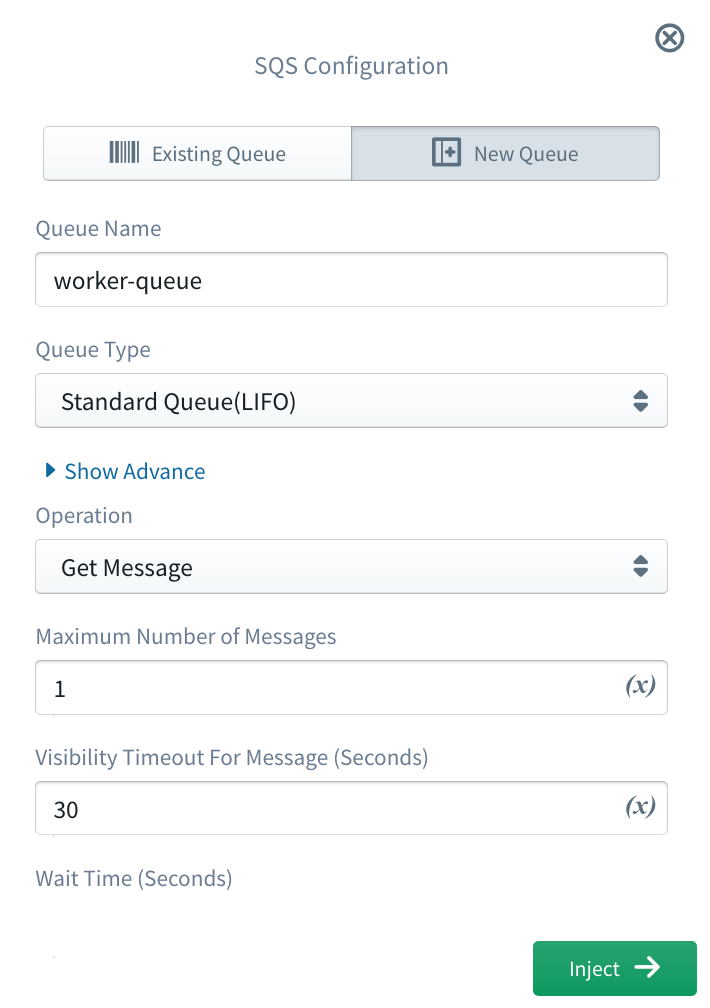
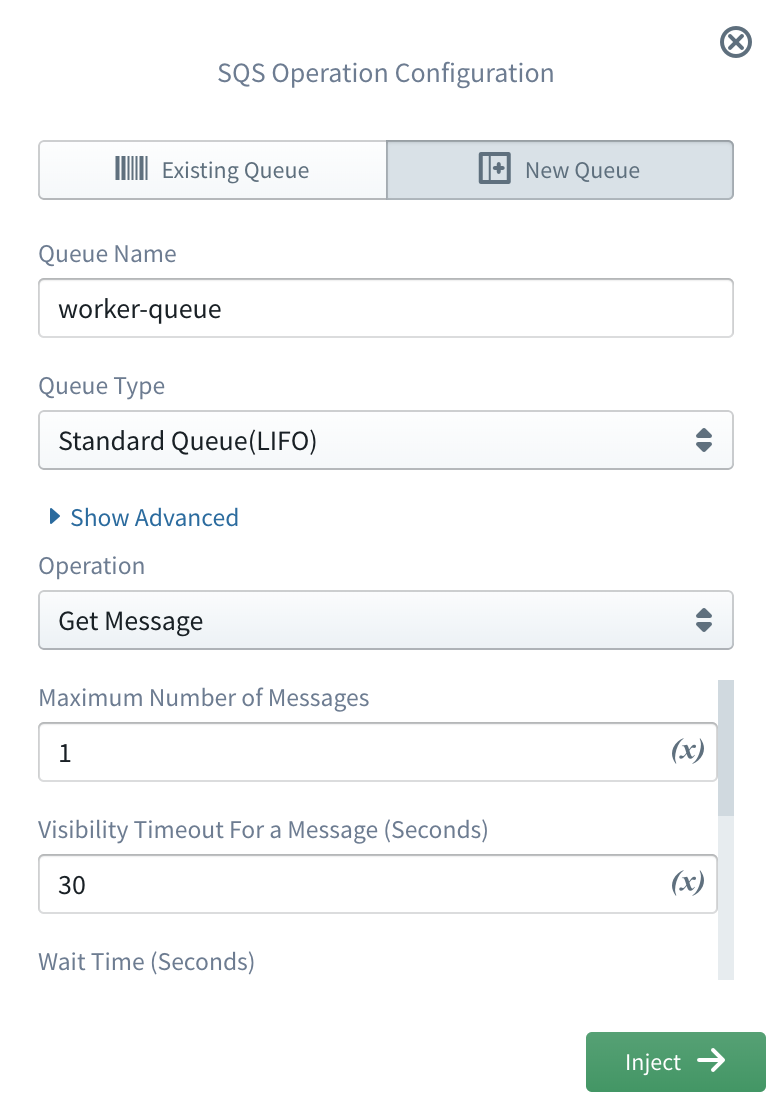
Fixed some issues in the SQS documentation

diff --git a/docs/components/aws/sqs.md b/docs/components/aws/sqs.md
@@ -4,49 +4,57 @@ description: Process and push messages on scalable AWS SQS cloud message queues,
 
 # ![](images/sqs/sqs_icon.svg) AWS SQS (Simple Queue Service)
 
-Amazon Simple Queue Service (SQS) is fully managed, reliable and highly scalable cloud message queuing service to store
-and consume messages to keep modularity between application components in micro services and distributed systems.
-SQS supports both standard and FIFO queue types, to facilitate at-least-once and exactly-once guarantees respectively,
-while providing highly concurrent access to messages and high availability for producing and consuming messages.
+Amazon Simple Queue Service (SQS) is a fully managed, reliable and highly scalable cloud message queuing service that 
+can be used to store and consume messages to keep modularity between application components in microservices and 
+distributed systems.
+SQS supports both standard and FIFO queue types, to facilitate **at-least-once** and **exactly-once guarantees** 
+respectively, while providing highly concurrent access to messages and high availability for producing and consuming 
+messages.
 
 The Sigma IDE currently supports most of the available features of SQS service including,
 - Standard and FIFO queue types
-- Queue level and per message configurations and validations for all provided features like visibility time, delivery delay etc.
+- Queue level and per message configurations and validations for all provided features like visibility time, delivery
+ delay, etc.
 - Put, Get and Get and Remove operations are provided.
 - Operation wise parameter configuration and validation.
 
 ## SQS for Operations
-Sigma IDE provides the ability to execute Get, Put and Get and Remove operations on SQS resources. Users have the ability 
-to either select an existing queue or configure new queue to execute the required operation. Sigma provides ability to 
-configure both operation and queue resource under a single window without any overhead to the user.
+Sigma IDE provides the ability to execute **Get**, **Put** and **Get and Remove** operations on SQS resources. Users 
+have the ability to either select an existing queue or configure a new queue to execute the required operation. Sigma 
+provides the ability to configure both operation and queue resource under a single window without any overhead to the 
+user.
 
-To use SQS resource for operations, it should be dragged from the resources panel and dropped on the required line of the 
-lambda code editor. Then user should select either **Existing Queue** tab or **New Queue** tab based on the requirement.
+To use SQS resource for operations, it should be dragged from the resources panel and dropped on the required line of 
+the lambda code editor. Then the user should select either **Existing Queue** tab or **New Queue** tab based on the 
+requirement.
 
 ### Using Already Existing SQS Queue
 
-If it's required to execute an operation on a queue which is already exists, first user should select the **Existing Queue** 
-mode tab. Then existing queue names will be listed in the Queue Name drop down list. User can easily select required queue 
-from that drop down list. If  in the  queue type should be selected.
+If it's required to execute an operation on a queue which already exists, firstly, the user should select the 
+**Existing Queue** mode tab. Then existing queue names will be listed in the Queue Name drop-down list and the user can 
+easily select the required queue from that drop-down list. To determine whether a queue is **FIFO**, the user can check 
+whether the queue name ends with the suffix **.fifo**.
 
 ### Using New SQS Queue
 
-If it's required to execute an operation on a newly created queue, first user should select the **New Queue** mode tab. 
-Then required parameters should be configured for the queue which is going to be created and invoke the required operation.
+If it is required to execute an operation on a newly created queue, firstly, the user should select the **New Queue** 
+mode tab. Then the required parameters should be configured for the queue which is going to be created and invoke the 
+required operation.
 
 #### Configuring New SQS Resource
 
-SQS queue resource can be easily configured by providing queue name and queue type for the basic use case.
+SQS queue resource can be easily configured by providing a queue name and the queue type for the basic use case.
 
 <p align="center">
   <img width="400" src="./images/sqs/sqs_new_queue.png">
 </p>
 
-If the queue type is, FIFO, queue name should be suffixed with *.fifo* extension. If not, user can provide any name as 
-the queue name without special characters.
+If the queue type is **FIFO**, queue name should be suffixed with **.fifo** extension. This suffix will also be counted 
+towards the 80-character queue name limit. On the other hand, if the queue type is **LIFO**, user can provide any 
+name as the queue name, but without any special characters.
 
-User can configure advance properties such as message retention period, delivery delay for the queue, etc. by expanding 
-advance properties section by clicking the **Show Advance** option.
+User can configure advanced properties such as message retention period, delivery delay for the queue, etc. by expanding 
+advanced properties section by clicking the **Show Advanced** option.
 
 <p align="center">
   <img width="400" src="./images/sqs/sqs_new_queue_advance.png">
@@ -54,53 +62,58 @@ advance properties section by clicking the **Show Advance** option.
 
 ### Using Already Configured Queue for Subsequent Operations
 
-Once user configured new queue from the Sigma IDE, it will be considered as an existing queue for subsequent operations. 
-If user want to execute some operation, on already configured queue from the IDE, user can dragged the SQS resource from 
-the resource panel and then select the **Existing Queue** tab and then select the required queue from the queue name drop 
-down list. For the clarity, IDE will show already configured queues with the *(New)*  suffix for the queue name. 
-As an example, let's assume that user first creates a queue with name *worker-queue* and then it's required to use that 
-queue for some other operation. In that case, user can select the queue under queue name list in the existing queue mode 
-like below,
+Once the user configured a new queue from the Sigma IDE, it will be considered as an existing queue for subsequent 
+operations. 
+If the user wants to execute some operation on already configured queue from the IDE, user can drag the SQS resource 
+from the resource panel and then select the **Existing Queue** tab and then select the required queue from the queue 
+name drop down list. For the clarity, IDE will show the already configured queues with the **(New)**  suffix for the 
+queue name. 
+
+As an example, let's assume that the user first creates a queue with name *worker-queue* and then it's required to use 
+that queue for some other operation. In that case, the user can select the queue under the queue name list in the 
+existing queue mode as below,
 
 <p align="center">
-  <img width="400" src="./images/sqs/sqs_select_already_configuded_queue.png">
+  <img width="400" src="./images/sqs/sqs_select_already_configured_queue.png">
 </p>
 
 ### Configure SQS Operation
 
-Once user configure or select the queue resource for the operation, user can configure the required operation to be invoked 
-on that queue. Currently Sigma IDE supports frequently used three main commands, Put, Get and Get and Remove. As the first 
-step, user should select the required operation from the operation drop down list of the configuration window.
+Once the user configures or selects the queue resource for the operation, the user can configure the required operation 
+to be invoked on that queue. Currently, Sigma IDE supports frequently used three main commands, **Put**, **Get** and 
+**Get and Remove**. As the first step, the user should select the required operation from the operation drop-down list 
+of the configuration window.
 
 #### Put Operation
 
-Put operation insert a message to the specified queue with the configured payload and attributes. Based on the configured 
+Put operation inserts a message to the specified queue with the configured payload and attributes. Based on the configured 
 queue type, put operation parameters will be changed.
 
-For standard queue type, parameters list is like this,
+For standard queue (LIFO) type, parameters will be the following.
 
 Field         | Required          | Description
----           | :---:             | :---:   
+---           | :---:             | :---  
 Message Payload     | :white_check_mark:| Payload of the message to be sent
 Message Attributes  | :x:         | Key value list of message attributes to be sent with the message
 
-For FIFO queue type, parameters list is like this,
+For FIFO queue type, parameters will be the following.
 
 Field                     | Required          | Description
----                       | :---:             | :---:   
+---                       | :---:             | :---
 Message Payload           | :white_check_mark:| Payload of the message to be sent.
-Message Deduplication Id  | :x:               | This parameter applies only to FIFO (first-in-first-out) queues. The token used for deduplication of sent messages to the queue. If the queue has configured to use *Content-Based Deduplication*, this is optional, but if not this is a mandatory parameter.
+Message Deduplication Id  | :x:               | The token used for deduplication of sent messages to the queue. If the queue has configured to use *Content-Based Deduplication*, this is optional. Otherwise this is a mandatory parameter.
 Message Group Id          | :white_check_mark:| This specifies that a message belongs to a specific message group. Messages that belong to the same message group are processed in a FIFO manner.
-Message Attributes  | :x:         | Key value list of message attributes to be sent with the message.
+Message Attributes        | :x:               | Key value list of message attributes to be sent with the message.
 
 
 #### Get Operation
 
-Get operation fetched messages from the configured queue. User can configure get operation parameters like below for both queue types.
+Get operation fetches messages from the configured queue. User can configure the following get operation parameters for 
+both queue types.
 
 Field                     | Required            | Description
----                       | :---:               | :---:   
-Maximum Number of Messages| :white_check_mark:  | The maximum number of messages to return for the get operation. Amazon SQS never returns more messages than this value (however, fewer messages might be returned). Valid values are 1 to 10. Default is 1.
+---                       | :---:               | :---  
+Maximum Number of Messages| :white_check_mark:  | The maximum number of messages to be returned for the get operation. Amazon SQS never returns more messages than this value (however, fewer messages might be returned). Valid values are 1 to 10. Default is 1.
 Visibility Timeout For a Message| :white_check_mark: | The duration (in seconds) that the received messages are hidden from subsequent retrieve requests after being retrieved by a ReceiveMessage request.
 Wait Time                 | :white_check_mark:  | The duration (in seconds) for which the call waits for a message to arrive in the queue before returning. If a message is available, the call returns sooner than this value.
 Message Attribute Names   | :x:                 | The comma separate list of message attribute names to fetch together with each message.
@@ -108,8 +121,10 @@ Attribute Names           | :white_check_mark:  | A list of attributes with meta
 
 #### Get and Remove Operation
 
-Once you read messages from SQS, it doesn't delete those message automatically. It's consumers responsibility to remove 
-messages once it reads the message completely. To make this process more intuitive and user friendly Sigma IDE facilitate 
-custom operation to handle this in a single operation. All the parameters for this operation is completely equivalent to 
-the list of parameters in the above Get operation. Generated code fragment will be differed for two operations to handle 
-the difference between the behaviors of two operations. 
+Once a message is read from an SQS queue, that message will not be deleted automatically. It is the consumer's 
+responsibility to remove messages once they read the message successfully. To make this process more intuitive and 
+user-friendly, Sigma IDE facilitates a custom operation to handle this in a single operation. 
+
+All the parameters for this operation are completely equivalent to the list of parameters in the above Get operation. 
+Only the generated code fragments will be different for two operations to handle the difference between the behaviors
+ of the two operations. 
